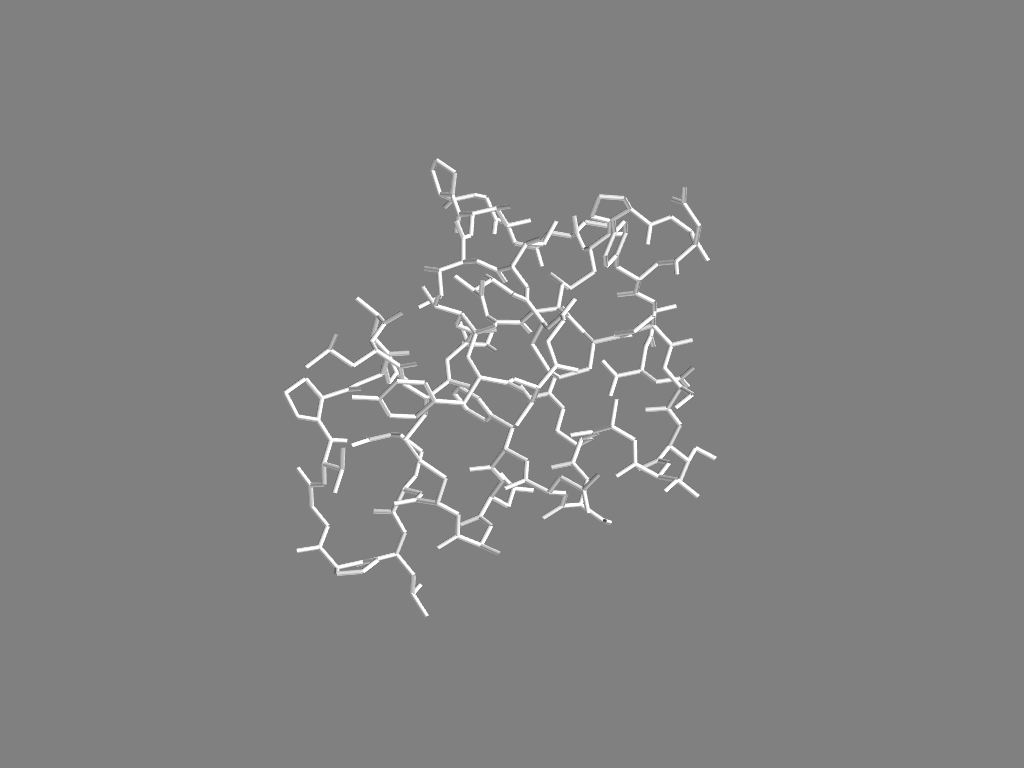
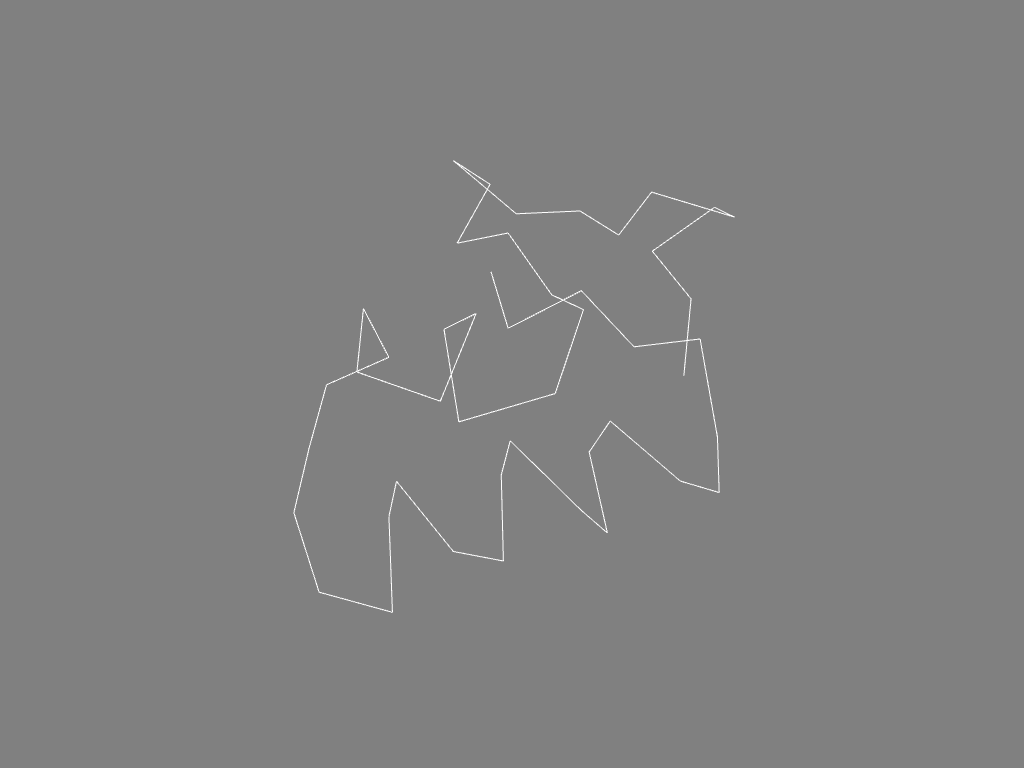
Colorful bonds and spline backbone

Changed region(s): [[0.2812, 0.2188, 0.7188, 0.7812], [0.4062, 0.7812, 0.4375, 0.8125]]

diff --git a/provis/src/plotting/stick_point.py b/provis/src/plotting/stick_point.py
@@ -20,7 +20,7 @@ class StickPoint:
         ## return list of spheres (meshes) and colors for the spheres
         self._atoms, self._col_a = self._dh.get_atom_mesh(atom_data, vw=0) # second arg: 1 = showvw spheres instead of "normal" radius
         ## return list of lines (meshes)
-        self._bonds = self._dh.get_bond_mesh()
+        self._bonds, self._bond_col = self._dh.get_bond_mesh()
         ## return list of spheres (meshes) and colors for the spheres
         res_data = self._dh.get_residues()
         self._residues, self._col_r = self._dh.get_residue_mesh(res_data)
@@ -99,7 +99,7 @@ class StickPoint:
         pl.show(screenshot=outname)
 
 
-    def plot(self, atoms=0, box=0, bonds=0, vw=0, residues=0, res=None, outname=0, title=None):
+    def plot(self, atoms=0, box=0, bonds=0, vw=0, residues=0, res=None, bb=0, outname=0, title=None):
         """
         Plot stick and point model
         
@@ -107,14 +107,16 @@ class StickPoint:
         :param type: bool, optional
         :param name: box, optional - If True bounding box also visualized, default: 0.
         :param type: bool, optional
-        :param name: bonds, optional - Plot bond, default: 0.
-        :param type: bool, optional
+        :param name: bonds, optional - Plot bond. If zero or undefined then it does not plot the bonds, if 1 it plots all bonds uniformly, if 2 it plots colorful bonds (see data_handler). Default: 0.
+        :param type: int, optional
         :param name: vw - Plot Wan-der-Waals radii instead of atomic radii.
         :param type: bool, optional
         :param name: residues, optional - Plot residue, default: 0.
         :param type: bool, optional
         :param name: res - Residues passed in 'res' will be plotted with a bounding box around them. Defaults to None.
         :param type: Residue, optional
+        :param name: bb - If True backbone of protein is plotted. Default: False.
+        :param type: bool, optional
         :param name: outname - Save image of plot to specified filename. Will appear in data/img directory. Defaults to data/img/{pdb_id}_stick_point.png.
         :param type: string, optional
         :param name: title - Title of the plot window. Defaults to None.
@@ -140,10 +142,15 @@ class StickPoint:
                     pl.add_mesh(mesh, color=self._col_a[j], opacity=opacity, smooth_shading=True, style=style)
 
         # adding the bonds one at a time
-        if bonds:
+        if bonds == 1:
             for b in self._bonds:
-                pl.add_mesh(b, color='w', line_width=5, render_lines_as_tubes=True)
+                pl.add_mesh(b, color="w", line_width=5, render_lines_as_tubes=True)
                 # TODO: figure out why  render_lines_as_tubes=True, crashes
+        if bonds == 2:
+            for b, c in zip(self._bonds, self._bond_col):
+                pl.add_mesh(b, color=c, line_width=5, render_lines_as_tubes=True)
+                # TODO: figure out why  render_lines_as_tubes=True, crashes
+                
         # adding the spheres (by residue) one at a time
         # only executes if residue information provided
         if residues:
@@ -165,11 +172,15 @@ class StickPoint:
                 x, y, z = d,d,d
                 pl.add_mesh(pv.Cube(center=self._dh.get_residue_info(r, chain,'com'), x_length=x, y_length=y, z_length=z), style='wireframe', show_edges=1, line_width=5)
 
+        if bb:
+            bb_mesh = self._dh.get_backbone_mesh()
+            pl.add_mesh(pv.Spline(bb_mesh))
         # save a screenshot
         if not outname:
             new_name = self._name.split('/')
             new_name = new_name[-1].split('.')[0]
             outname = self._base_path + 'data/img/' + new_name + '_stick_point.png'
+            
         pl.show(screenshot=outname, title=title)
 
 
@@ -229,11 +240,35 @@ class StickPoint:
             outname = self._base_path + 'data/img/' + new_name + '_vw.png'
         self.plot(atoms=1, box=box, vw=1, bonds=0, residues=0, res=r, title="Van-der-Waals")
         
-    def plot_bonds(self, box=0, r=0, outname=0):
+    def plot_bonds(self, colorful=False, box=0, r=0, outname=0):
         """
         Plot bonds only
         
-        :param name: box, optional - If True bounding box also visualized, default: 0.
+        :param name: colorful - If True bonds will be plotted in a colorful manner. If False all bonds are white. Default: False
+        :param type: bool, optional
+        :param name: box - If True bounding box also visualized, default: 0.
+        :param type: bool, optional
+        :param name: res - Residues passed in 'res' will be plotted with a bounding box around them. Defaults to None.
+        :param type: Residue, optional
+        :param name: outname - Save image of plot to specified filename. Will appear in data/img directory. Defaults to data/img/{pdb_id}_atoms.png.
+        :param type: string, optional
+        
+        :return: Pyvista.Plotter window - Window with interactive plot.
+        """
+        b = bool(colorful) * 1 + 1
+        # save a screenshot
+        if not outname:
+            new_name = self._name.split('/')
+            new_name = new_name[-1].split('.')[0]
+            outname = self._base_path + 'data/img/' + new_name + '_bonds.png'
+        self.plot(atoms=0, box=box, vw=0, bonds=b, residues=0, res=r, outname=outname, title="Bonds")
+        
+        
+    def plot_backbone(self, box=0, r=0, outname=0):
+        """
+        Plot bonds only
+        
+        :param name: box - If True bounding box also visualized, default: 0.
         :param type: bool, optional
         :param name: res - Residues passed in 'res' will be plotted with a bounding box around them. Defaults to None.
         :param type: Residue, optional
@@ -247,5 +282,5 @@ class StickPoint:
             new_name = self._name.split('/')
             new_name = new_name[-1].split('.')[0]
             outname = self._base_path + 'data/img/' + new_name + '_bonds.png'
-        self.plot(atoms=0, box=box, vw=0, bonds=1, residues=0, res=r, outname=outname, title="Bonds")
+        self.plot(atoms=0, box=box, vw=0, bonds=0, residues=0, res=r, bb=1, outname=outname, title="Bonds")
 

diff --git a/provis/src/processing/data_handler.py b/provis/src/processing/data_handler.py
@@ -47,6 +47,7 @@ class DataHandler:
             "PRO": '#9FEBA4', "SER": '#BBD7EB', "THR": '#D1A67A', "TRP": '#F93713', "TYR": '#E5613D',
             "VAL": '#128033', "HOH": 'w', "HEM": 'r'}
         self._atoms_size_dict, self._atoms_color_dict, self._vw_dict = import_atm_size_info(1)
+        self.get_backbone_mesh()
 
 
     def get_atoms(self, show_solvent=False):
@@ -347,9 +348,18 @@ class DataHandler:
 
     def get_bond_mesh(self):
         """
-        Determine bonds from 3D information
+        Determine bonds from 3D information.
+        
+        The color information is as follows:
+            White for all single bonds, 
+            Blue for all double bonds,
+            Green for all triple bonds,
+            Red for all amide bonds,
+            Purple for all aromatic bonds,
+            Black for everything else.
         
         :return: list - List of pyvista lines representing each bond.
+        :retrun: list - List of colors corresponding to the lines in the above list
         """
         fname = self._out_path + ".mol2"
 
@@ -363,17 +373,55 @@ class DataHandler:
 
         # Find endpoints of bonds, create Line() and add to list of lines
         bonds = []
+        col = []
         for i in range(len(bonds_in)):
             my = pmol.df.iloc[int(bonds_in.iloc[i]['atom1'])-1][['x', 'y', 'z']]
             c = pmol.df.iloc[int(bonds_in.iloc[i]['atom2'])-1][['x', 'y', 'z']]
             
             my_coord = my.values.tolist()
             c_coord = c.values.tolist()
-            # if bonds_in.iloc[i]['bond_type'] == '1': #TODO: differentiate between different bonds.
-            line = pv.Line(my_coord, c_coord, resolution=5)
-            # elif bonds_in.iloc[i]['bond_type'] != '1':
-            #     line = pv.Text3D('||')
+            if bonds_in.iloc[i]['bond_type'] == '1': #TODO: differentiate between different bonds.
+                line = pv.Line(my_coord, c_coord, resolution=5)
+                col.append('w')
+            elif bonds_in.iloc[i]['bond_type'] == '2':
+                line = pv.Line(my_coord, c_coord, resolution=1)
+                col.append('b')
+            elif bonds_in.iloc[i]['bond_type'] == '3':
+                line = pv.Line(my_coord, c_coord, resolution=1)
+                col.append('g')
+            # amide bond in red
+            elif bonds_in.iloc[i]['bond_type'] == 'am':
+                line = pv.Line(my_coord, c_coord, resolution=1)
+                col.append('r')
+            # aromatic bond in purple
+            elif bonds_in.iloc[i]['bond_type'] == 'ar':
+                line = pv.Line(my_coord, c_coord, resolution=1)
+                col.append('m')
+            else:
+                line = pv.Line(my_coord, c_coord, resolution=1)
+                col.append('k')
             bonds.append(line)
         
-        return bonds
+        return bonds, col
+    
+    def get_backbone_mesh(self):
+        """
+        Creates and returns a Spline object representing the backbone of the protein.
         
+        :returns: numpy.ndarray - List of coordinates representing the centre of mass of each residue. To be used in stick_point to create a Spline.
+        """
+        
+        residues = self._structure.get_residues()
+        
+        res_list = []
+        for res in residues:
+            if res.get_resname() != "HOH":
+                com = [0, 0, 0]
+                count = 0
+                for atom in res: 
+                    coords = atom.get_coord()
+                    com += coords
+                    count += 1
+                com /= count
+                res_list.append(com)
+        return np.array(res_list)

diff --git a/main.py b/main.py
@@ -15,20 +15,21 @@ def main():
     
     # define variables needed later
     # you can either just run the main inside the provis directory and simply set the name as the pdb filename and not specify a base path
-    # eg name = "2fd7" or "2fd7.pdb"
+    name = "2fd7" #or "2fd7.pdb"
     # OR
     # you can specify the full paht to the pdb file and the working directory (where the needed folder structure is set up) and run it like follows:
-    name = "/home/kczi/Documents/provis/data/pdb/selected_prediction" # "2fd7" #"1a3n" # "data/pdb/2fd7" # "data/pdb/1a3n" # "data/pdb/7nkd" #
-    base_path='/home/kczi/Documents/provis/'
+    # name = "/home/kczi/Documents/provis/data/pdb/selected_prediction" # "2fd7" #"1a3n" # "data/pdb/2fd7" # "data/pdb/1a3n" # "data/pdb/7nkd" #
+    # base_path='/home/kczi/Documents/provis/'
     density = 3.0
     solvent = 0
     bash = 0
     
     # Create all the necessary files from the .pdb file
-    fc = FileConverter(name, density, solvent, bash, base_path)
+    fc = FileConverter(name, density, solvent, bash)#, base_path)
     
     # Plot stick point
-    # sp = StickPoint()
+    sp = StickPoint()
+    sp.plot_backbone()
     # sp.plot_atoms()
     # sp.plot_bonds()
     # sp.plot_vw()
@@ -37,15 +38,15 @@ def main():
     # r.add_residue(3)
     # r. add_residue(1, 1)
     # r.remove_residue(1, 1)
-    # sp.plot(atoms=1, box=1, bonds=1, vw=0, residues=0, res=r)
+    # sp.plot(atoms=1, box=1, bonds=1, vw=0, residues=0, res=r, bb=0)
 
 
     # Plot surface
-    s = Surface(dens=density)
-    s.plot_hydrophob()
-    s.plot_surface()    
-    s.plot_shape()
-    s.plot_charge()
+    # s = Surface(dens=density)
+    # s.plot_hydrophob()
+    # s.plot_surface()    
+    # s.plot_shape()
+    # s.plot_charge()
 
     # Clean up directories
     fc.cleanup(delete_img=0)
